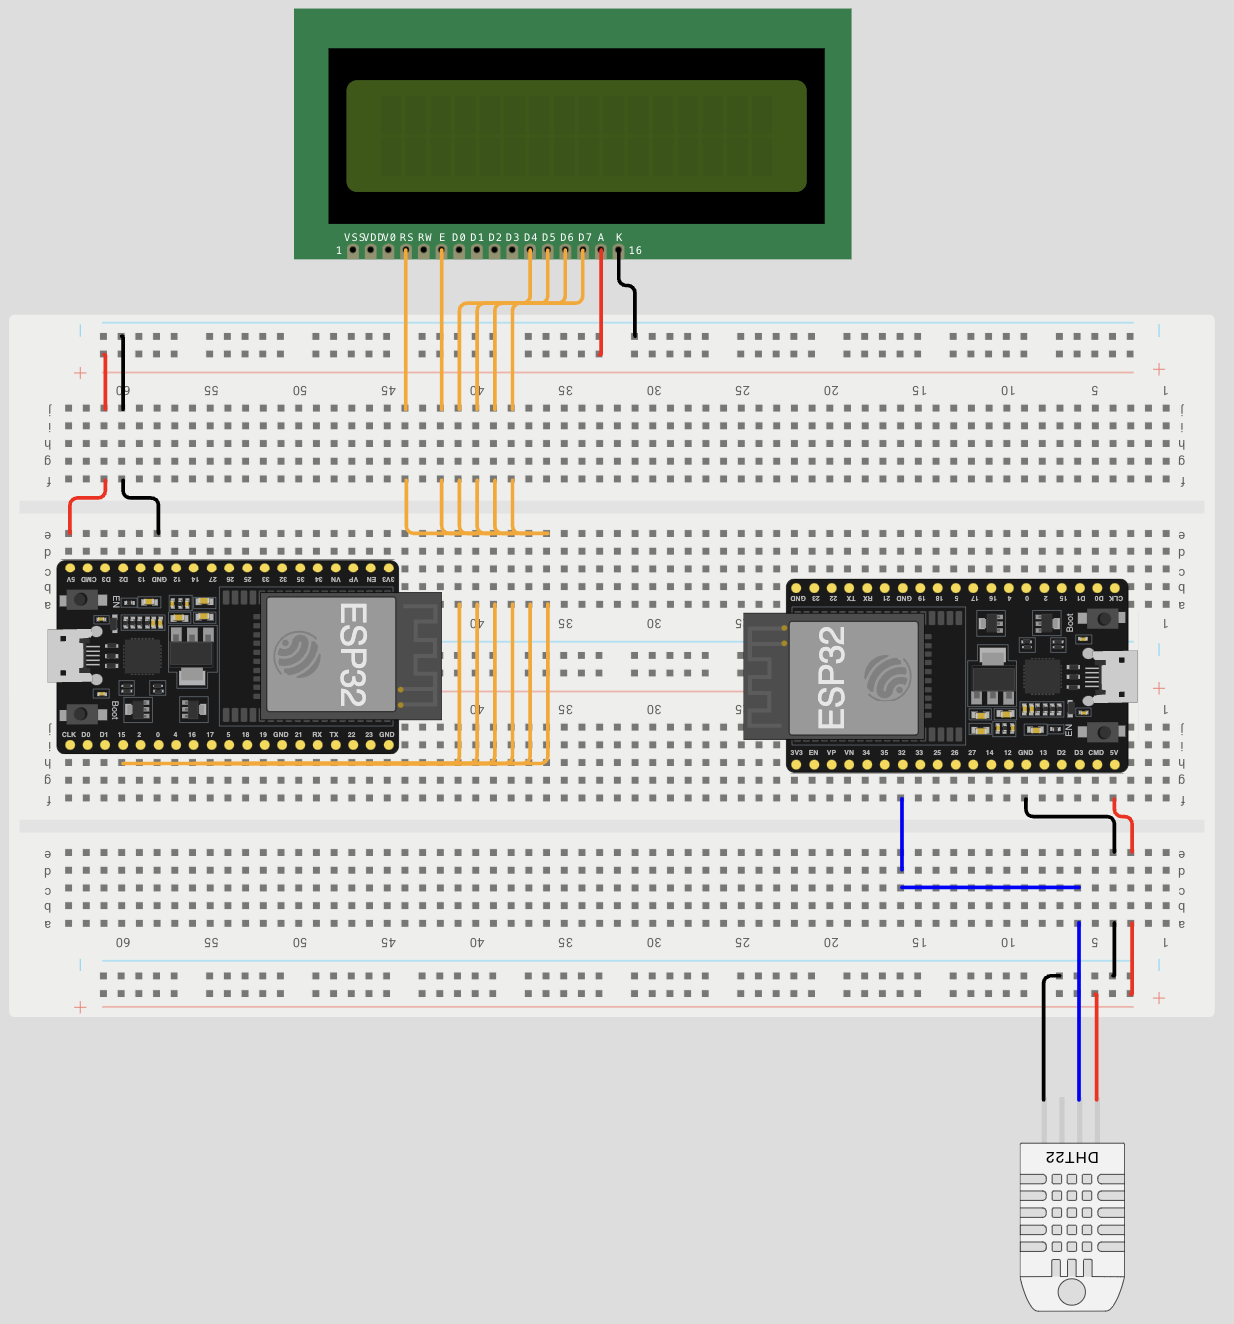
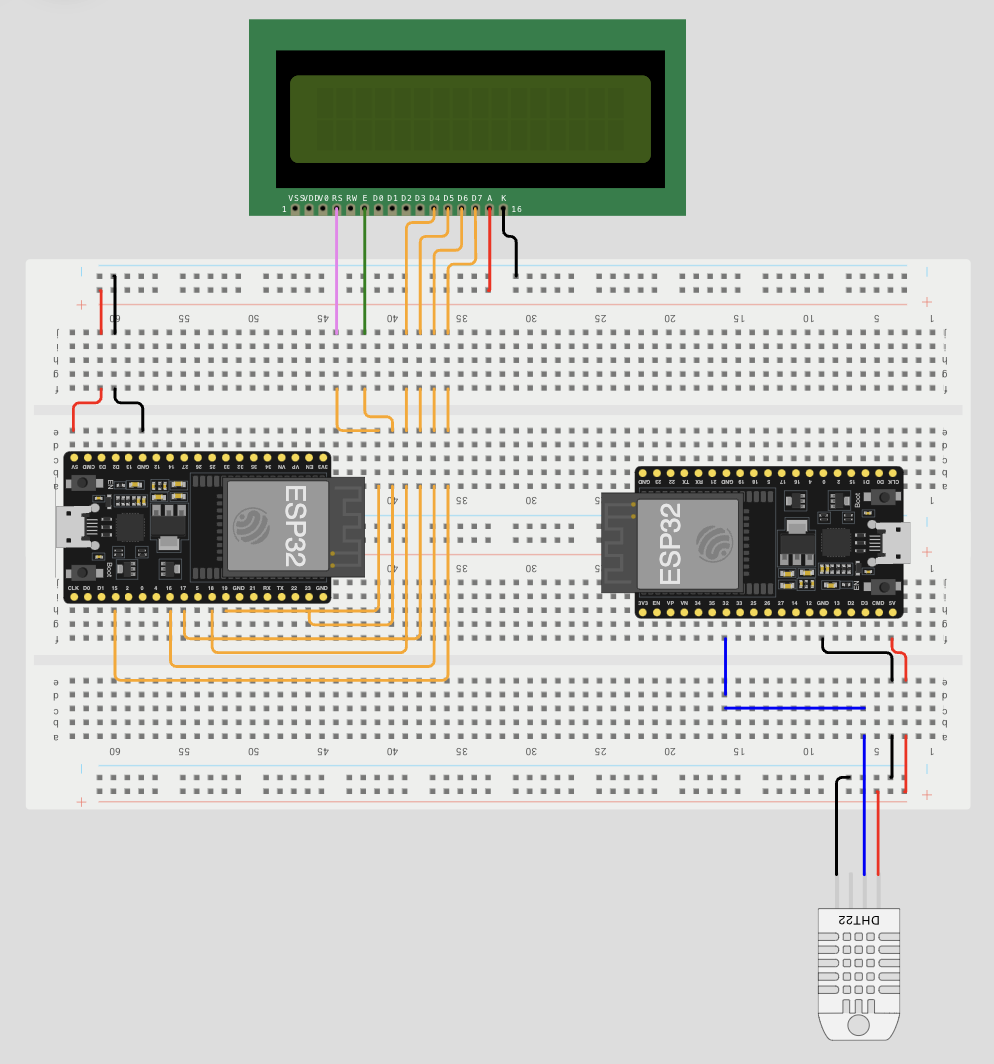
Readme done

Changed region(s): [[0.0312, 0.0, 0.9668, 0.9925]]

diff --git a/README.md b/README.md
@@ -26,6 +26,10 @@ SkyVault est une solution composé de:
 
 Lorsque la concentration de gaz est trop grande ou que le niveau d'humidité extérieur est trop hauts la raspberry enclanche le mécanisme de fermeture du balcon (fait sonné le haut parleur) pour protéger l'utilisateur des dangers extérieurs.
 
+### Schéma de l'architecture
+
+![img](img/schemaarchi.png)
+
 # III. Installation de la solution
 
 1- Clonné ce répository
@@ -43,4 +47,20 @@ sudo sh ./get-docker.sh --dry-run
 - **Importe docker compose** : Récupérer le docker-compose.yml dans le dossier MQTT. Excuter la commande ``` docker compose up ```
 
 ### Set Up ESP32
-- **
+- **Sur l'esp32 publisher** :
+  - Ajouter le script esp32_pub.py dans l'esp32 (fichier dans le dossier MQTT)
+  - Ajouter la ligne ```import esp32_pub``` dans le fichier boot.py de l'esp32
+
+- **Sur l'esp32 subscriber** :
+  - Ajouter le script esp32_pub.py dans l'esp32 (fichier dans le dossier MQTT)
+  - Ajouter la ligne ```import esp32_sub``` dans le fichier boot.py de l'esp32
+  - Ajouter les fichier **esp32_gpio_lcd.py** et **lcd_api.py** dans l'esp32 (fichier dans le dossier library)
+
+### Set Up firebase
+- **Lancer les commande suivante**: 
+
+```bash
+cd MQTTtoFirebase/
+npm run install
+```
+
